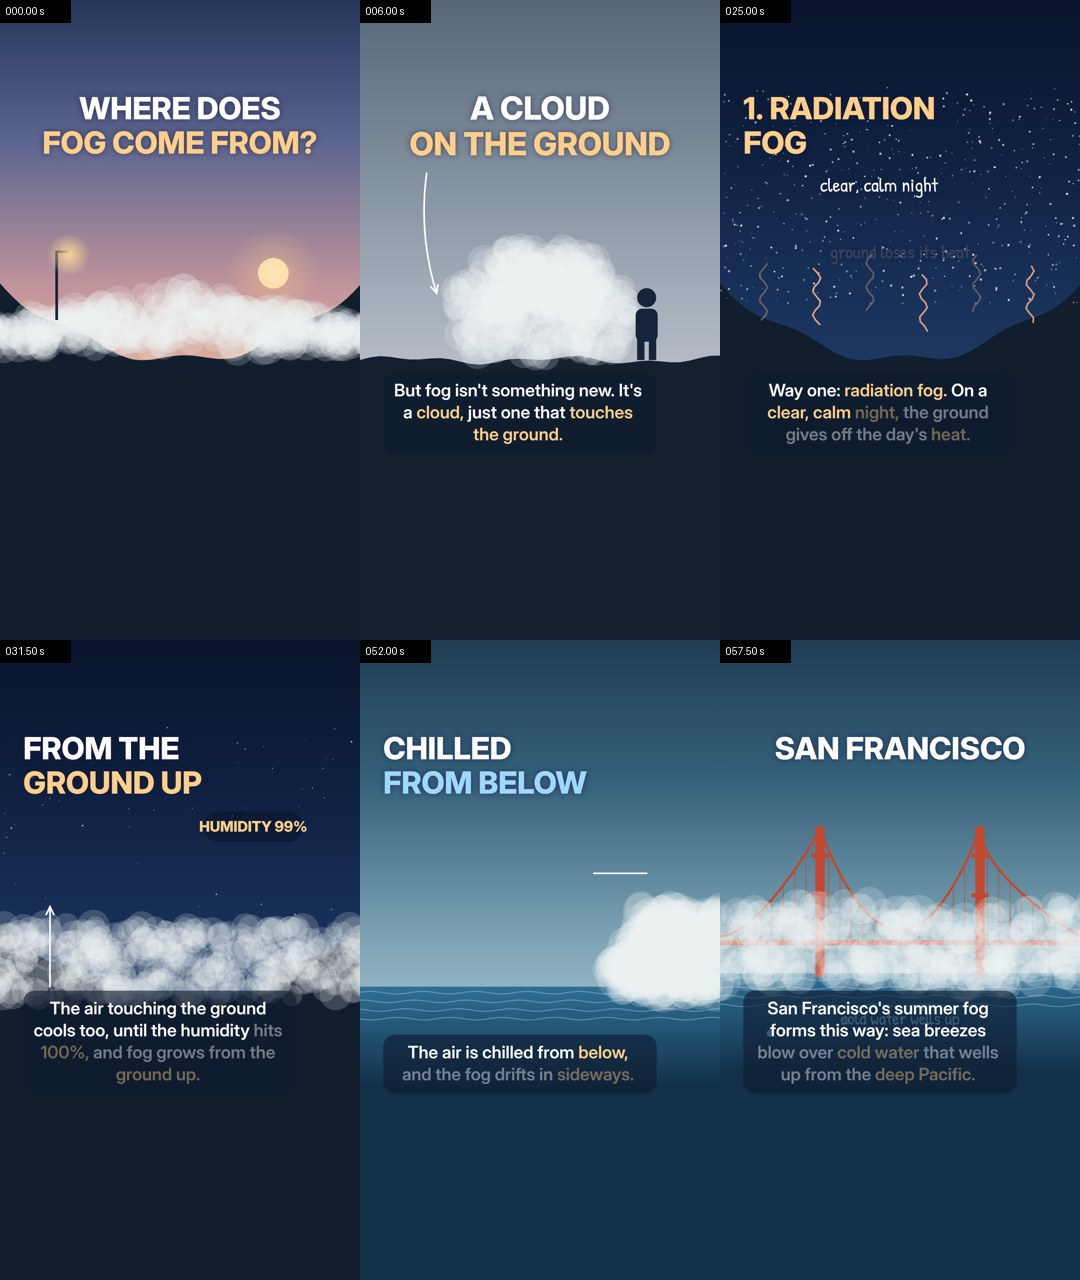
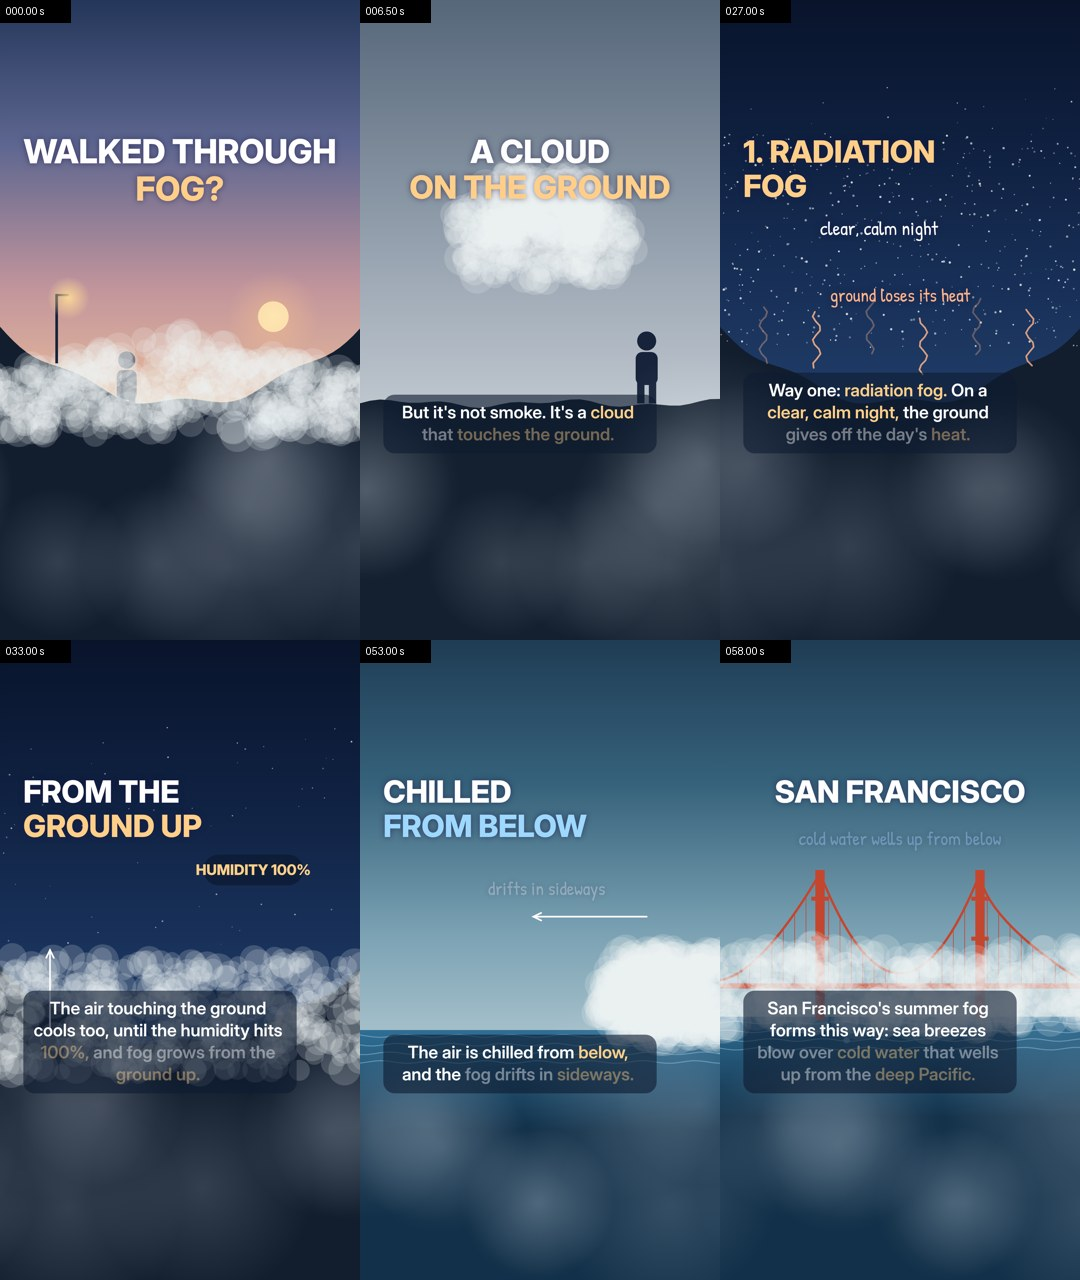
fog v2 (main's notes): claim hook, scenes pulled down 130 px with fog spilling into the lower third, SF label above the water; honey: captions centred at y 1250 to clear the badge
Claude-Session: https://claude.ai/code/session_01BPYB3p1FWoUGpnGH5tCKNK

diff --git a/reels/t_fog.js b/reels/t_fog.js
@@ -12,7 +12,8 @@ const ss = (a, b, x) => { const k = clamp((x - a) / (b - a)); return k * k * (3 
 const fr = x => x - Math.floor(x), hash = n => fr(Math.sin(n * 127.1 + 311.7) * 43758.5453), tri = u => 1 - Math.abs(2 * fr(u) - 1);
 const N = 420, HS = Array.from({ length: N }, (_, i) => [1, 2, 3, 4, 5, 6].map(k => hash(i * 7.31 + k * 1.913)));
 const INK = '#16233a', WARM = '#ffcf8a', COLD = '#9fd8ff', FOGC = '#eef3f7', PEACH = '#ffb48a';
-const GY = 1080;   // ground line
+const GY = 1080, DY = 130;   // ground line in scene space; every scene is drawn DY lower (ground at y ~1210 on screen)
+function lowMist(t) { c.save(); for (let j = 0; j < 9; j++) { const x = fr(hash(j * 3.1) + t * .012 * (1 + hash(j))) * (W + 600) - 300, y = 1330 + hash(j * 5.3) * 380, r = 220 + 140 * hash(j * 7.7); const g = c.createRadialGradient(x, y, 0, x, y, r); g.addColorStop(0, 'rgba(225,235,245,.16)'); g.addColorStop(1, 'rgba(225,235,245,0)'); c.fillStyle = g; c.fillRect(x - r, y - r, 2 * r, 2 * r); } c.restore(); }
 
 // ---------- backgrounds (a dawn-valley palette, distinct from twinkle's violet night) ----------
 const BG = {
@@ -69,13 +70,13 @@ function inCircle(h1, h2, cx, cy, r) { const a = h1 * TAU, d = Math.sqrt(h2) * r
 // ---------- particle formations: f(i, t, lt) -> [x, y] ----------
 const drift = (q, t, sp = .012) => fr(q[0] + t * sp * (.6 + q[4])) * (W + 240) - 120;
 const F = {
-  valley: (i, t) => { const q = HS[i], x = drift(q, t), v = Math.abs(x - 540) / 540; return [x, GY - 40 - q[1] * 170 * (1 - .6 * v) + 30 * v * v * 0 + 8 * Math.sin(t * .6 + q[2] * 6)]; },
+  valley: (i, t) => { const q = HS[i], x = drift(q, t), v = Math.abs(x - 540) / 540; return [x, GY + 90 - q[1] * 300 * (1 - .4 * v) + 8 * Math.sin(t * .6 + q[2] * 6)]; },
   cloud: (cy) => (i, t, lt) => { const q = HS[i], L = [[540, 0, 170], [380, 30, 120], [700, 25, 130], [460, -70, 110], [630, -60, 110]][i % 5], y = typeof cy === 'function' ? cy(lt) : cy; const p = inCircle(q[1], q[2], L[0] + 8 * Math.sin(t * .5 + i), y + L[1], L[2]); return [p[0], p[1] * 1]; },
   room: (i, t) => { const q = HS[i]; return [70 + q[0] * 940 + 10 * Math.sin(t * .4 + q[3] * 6), 420 + q[1] * 650 + 8 * Math.cos(t * .5 + q[2] * 6)]; },
-  layer: (top) => (i, t, lt) => { const q = HS[i], tp = typeof top === 'function' ? top(lt, t) : top; return [drift(q, t, .01), GY - 10 - q[1] * (GY - 10 - tp) + 6 * Math.sin(t * .7 + q[2] * 6)]; },
+  layer: (top) => (i, t, lt) => { const q = HS[i], tp = typeof top === 'function' ? top(lt, t) : top; return [drift(q, t, .01), GY + 90 - q[1] * (GY + 90 - tp) + 6 * Math.sin(t * .7 + q[2] * 6)]; },
   two: (i, t) => { const q = HS[i], cx = i % 2 ? 760 : 320; return inCircle(q[1], q[2], cx + 6 * Math.sin(t + i), 760 + 6 * Math.cos(t + i), 170); },
   field: (i, t) => { const q = HS[i]; return [q[0] * W, 270 + q[1] * 640 + 4 * Math.sin(t * .3 + q[2] * 6)]; },
-  rise: (i, t, lt) => { const q = HS[i], u = clamp(lt / 3.5 - q[3] * .4); return [drift(q, t, .01), GY - 20 - q[1] * 260 - u * (200 + 500 * q[5])]; },
+  rise: (i, t, lt) => { const q = HS[i], u = clamp(lt / 3.5 - q[3] * .4); return [drift(q, t, .01), GY + 80 - q[1] * 360 - u * (200 + 500 * q[5])]; },
   stream: (i, t) => { const q = HS[i], x = fr(q[0] + t * .09 * (.7 + .5 * q[4])) * (W + 200) - 100; return [x, 880 + q[1] * 150 + 14 * Math.sin(x * .01 + t + q[2] * 6)]; },
   bank: (i, t, lt) => { const q = HS[i], front = 160 + Math.min(900, lt * 110), y = 800 + q[1] * 260; return [W + 60 - Math.pow(q[0], .8) * front + 90 * (q[3] - .5) + 50 * Math.sin(y * .02 + t * .8) + 10 * Math.sin(t + q[3] * 6), y + 10 * Math.sin(t * .7 + q[2] * 6)]; },
   gate: (i, t) => { const q = HS[i], x = fr(q[0] + t * .05 * (.6 + q[4])) * (W + 240) - 120; return [x, 800 + q[1] * 230 + 18 * Math.sin(x * .008 + t * .8)]; },
@@ -93,21 +94,22 @@ function drawP(style, x, y, i, t, a, sz = 1, lt = 0) { if (a <= .01 || x < -80 |
 // ---------- scenes (one per phrase) ----------
 const SC = [];
 const on = () => .95, rr = (i, d) => s(i) + d;
-SC[0] = { bg: 'dawn', style: 'fg', form: F.valley, pa: on, sz: 1.2, under: (lt, t) => { sun(820, 820, 46, .9); hills(1); }, draw: (lt, u, t) => { lamp(170, GY - 120, .8, 1); title([['WHERE DOES', '#fff'], ['FOG COME FROM?', WARM]], 1, 330, 92); } };
-SC[1] = { bg: 'grey', style: 'fg', form: F.cloud(lt => lerp(560, 930, ss(1.6, 4.4, lt))), pa: on, sz: 1.1, morph: 1.4, under: (lt, t) => flat(1), draw: (lt, u, t) => { person(860, GY, 1.1, 1); title([['A CLOUD', '#fff'], ['ON THE GROUND', WARM]], lt, 330, 96); arrow(200, 520, 230, 880, lt - 1.8, '#fff', 40); } };
-SC[2] = { bg: 'grey', style: 'vp', form: F.room, pa: on, under: (lt, t) => flat(1), draw: (lt, u, t) => { thermo(960, 780, 260, lerp(.8, .25, ss(.3, 3, lt)), COLD, pop(lt)); titleL([['COOL AIR', '#fff'], ['→ DROPLETS', WARM]], lt, 70, 330, 92); note('invisible vapor', 330, 1110 - 0, lt - .4, '#dfe8f0', 54); note('tiny droplets', 760, 1110, lt - 3.2, '#fff', 58); } };
-SC[3] = { bg: 'grey', style: 'fg', form: F.room, pa: on, sz: 1.5, under: (lt, t) => { flat(1); [[120, 1], [420, .7], [660, .45], [860, .25]].forEach(([x, k], j) => lamp(x, GY, 1 - j * .18, k)); }, draw: (lt, u, t) => { title([['DENSE FOG', '#fff']], lt, 330, 104); pill('¼ MILE OR LESS', CX, 500, 520, 96, WARM, INK, lt - 1.2); } };
-SC[4] = { bg: 'dawn', style: 'fg', form: F.two, pa: on, sz: .9, under: (lt, t) => flat(1), draw: (lt, u, t) => { title([['TWO WAYS', '#fff']], lt, 330, 110); pill('1', 320, 1010, 110, 96, WARM, INK, lt - .5); pill('2', 760, 1010, 110, 96, COLD, INK, lt - .9); } };
-SC[5] = { bg: 'night', style: 'tw', form: F.field, pa: () => .8, under: (lt, t) => { hills(1); }, draw: (lt, u, t) => { for (let j = 0; j < 6; j++) heat(130 + j * 160, GY - 70 - 30 * Math.abs(Math.sin(j)), t + j * .7, pop(lt - .8)); titleL([['1. RADIATION', WARM], ['FOG', WARM]], lt, 70, 330, 92); note('clear, calm night', 300, 560, lt - 1.4, '#fff', 58, 'left'); note('ground loses its heat', 540, 760, lt - 2.4, PEACH, 56); } };
-SC[6] = { bg: 'night', style: 'fg', form: F.layer((lt) => lerp(GY - 30, 760, ss(.4, 5, lt))), pa: on, sz: 1.1, under: (lt, t) => hills(1), draw: (lt, u, t) => { gauge('HUMIDITY', `${Math.round(lerp(70, 100, ss(.4, 3.6, lt)))}%`, 760, 560, lt - .4, WARM); titleL([['FROM THE', '#fff'], ['GROUND UP', WARM]], lt, 70, 330, 92); arrow(150, 1040, 150, 800, lt - 1.4, '#fff', 0); } };
-SC[7] = { bg: 'night', style: 'fg', form: F.layer((lt, t) => lerp(GY - 60, 520, tri(lt / 3.4 + .5) * 0 + ss(.3, 2.6, lt))), pa: on, sz: 1.1, under: (lt, t) => flat(1), draw: (lt, u, t) => { person(240, GY, .55, 1); note('3 ft', 240, GY - 140, lt - .3, '#fff', 56); c.save(); c.globalAlpha = pop(lt - 1.2); c.fillStyle = INK; c.fillRect(800, 520, 40, GY - 520); c.fillRect(790, 500, 60, 24); c.restore(); note('~1,000 ft', 700, 470, lt - 1.4, WARM, 60); title([['HOW DEEP?', '#fff']], lt, 330, 100); } };
-SC[8] = { bg: 'dawn', style: 'fg', form: F.rise, pa: (i, t, lt) => .95 * (1 - ss(1.2, 4.2, lt - HS[i][3])), sz: 1.1, under: (lt, t) => { sun(760, lerp(1080, 640, ss(0, 3.4, lt)), 60, 1); hills(1); }, draw: (lt, u, t) => { title([['THE SUN', '#fff'], ['BURNS IT OFF', WARM]], lt, 330, 96); } };
-SC[9] = { bg: 'sea', style: 'mx', form: F.stream, pa: on, under: (lt, t) => { sea(t, 1, 420, W, 1040); flat(1, '#2a3a2a', 1040); c.save(); c.beginPath(); c.rect(0, 0, 440, H); c.clip(); flat(1, '#3d5235', 1040); c.restore(); }, draw: (lt, u, t) => { titleL([['2. ADVECTION', COLD], ['FOG', COLD]], lt, 70, 330, 92); note('warm, moist air', 230, 800, lt - 1.2, PEACH, 54); note('cold water', 720, 1150, lt - 2.4, COLD, 56); arrow(120, 870, 420, 870, lt - 1.4, PEACH, -10); } };
-SC[10] = { bg: 'sea', style: 'fg', form: F.bank, pa: on, sz: 1.2, under: (lt, t) => { sea(t, 1, 0, W, 1040); }, draw: (lt, u, t) => { titleL([['CHILLED', '#fff'], ['FROM BELOW', COLD]], lt, 70, 330, 92); arrow(860, 700, 520, 700, lt - 1.4, '#fff', 0); note('drifts in sideways', 560, 620, lt - 1.8, '#fff', 56); } };
-SC[11] = { bg: 'sea', style: 'fg', form: F.gate, pa: on, sz: 1.2, under: (lt, t) => { sea(t, 1, 0, W, 1000); bridge(t, 1); for (let j = 0; j < 4; j++) { const u = fr(t * .4 + j / 4); c.save(); c.globalAlpha = .8 * (1 - u); c.fillStyle = COLD; c.beginPath(); c.arc(150 + j * 230, 1120 - u * 110, 10, 0, TAU); c.fill(); c.restore(); } }, draw: (lt, u, t) => { title([['SAN FRANCISCO', '#fff']], lt, 330, 92); note('cold water wells up from below', 540, 470, lt - 2.6, COLD, 56); } };
-SC[12] = { bg: 'dawn', style: 'fg', form: F.halves, pa: on, sz: .9, under: (lt, t) => { flat(1); sea(t, 1, 560, W, 1060); }, draw: (lt, u, t) => { title([['A CLOUD AT', '#fff'], ['GROUND LEVEL', WARM]], lt, 330, 96); note('ground cools it', 290, 780, lt - 2.4, PEACH, 50); note('over something cold', 790, 780, lt - 5.0, COLD, 50); } };
-SC[13] = { bg: 'grey', style: 'fg', form: F.room, pa: on, sz: 1.4, under: (lt, t) => flat(1), draw: (lt, u, t) => { person(lerp(300, 620, ss(0, 3, lt)), GY, 1.3, .9); title([['WALKED THROUGH', '#fff'], ['A CLOUD?', WARM]], lt, 330, 92); pill('YES', 400, 640, 220, 104, WARM, INK, lt - .9); pill('NO', 660, 640, 190, 104, '#fff', INK, lt - 1.1); } };
-SC[14] = { bg: 'dawn', style: 'fg', form: F.band, pa: () => .9, sz: .8, under: (lt, t) => hills(1), draw: (lt, u, t) => { const a = pop(lt);
+SC[0] = { bg: 'dawn', style: 'fg', form: F.valley, pa: on, sz: 1.2, under: (lt, t) => { sun(820, 820, 46, .9); hills(1); person(lerp(380, 470, ss(0, 3, lt)), GY + 40, 1.0, .85); }, draw: (lt, u, t) => { lamp(170, GY - 120, .8, 1); title([['WALKED THROUGH', '#fff'], ['FOG?', WARM]], 1, 330, 100); note('= a cloud', 760, 640, lt - 1.4, '#fff', 66); } };
+SC[1] = { bg: 'dawn', style: 'fg', form: F.valley, pa: on, sz: 1.2, under: (lt, t) => { sun(820, 820, 46, .9); hills(1); }, draw: (lt, u, t) => { lamp(170, GY - 120, .8, 1); title([['WHERE DOES', '#fff'], ['FOG COME FROM?', WARM]], lt, 330, 92); } };
+SC[2] = { bg: 'grey', style: 'fg', form: F.cloud(lt => lerp(560, 930, ss(1.6, 4.4, lt))), pa: on, sz: 1.1, morph: 1.4, under: (lt, t) => flat(1), draw: (lt, u, t) => { person(860, GY, 1.1, 1); title([['A CLOUD', '#fff'], ['ON THE GROUND', WARM]], lt, 330, 96); arrow(200, 520, 230, 880, lt - 1.8, '#fff', 40); } };
+SC[3] = { bg: 'grey', style: 'vp', form: F.room, pa: on, under: (lt, t) => flat(1), draw: (lt, u, t) => { thermo(960, 780, 260, lerp(.8, .25, ss(.3, 3, lt)), COLD, pop(lt)); titleL([['COOL AIR', '#fff'], ['→ DROPLETS', WARM]], lt, 70, 330, 92); note('invisible vapor', 300, 910, lt - .4, '#dfe8f0', 54); note('tiny droplets', 700, 910, lt - 3.2, '#fff', 58); } };
+SC[4] = { bg: 'grey', style: 'fg', form: F.room, pa: on, sz: 1.5, under: (lt, t) => { flat(1); [[120, 1], [420, .7], [660, .45], [860, .25]].forEach(([x, k], j) => lamp(x, GY, 1 - j * .18, k)); }, draw: (lt, u, t) => { title([['DENSE FOG', '#fff']], lt, 330, 104); pill('¼ MILE OR LESS', CX, 500, 520, 96, WARM, INK, lt - 1.2); } };
+SC[5] = { bg: 'dawn', style: 'fg', form: F.two, pa: on, sz: .9, under: (lt, t) => flat(1), draw: (lt, u, t) => { title([['TWO WAYS', '#fff']], lt, 330, 110); pill('1', 320, 900, 110, 96, WARM, INK, lt - .5); pill('2', 760, 900, 110, 96, COLD, INK, lt - .9); } };
+SC[6] = { bg: 'night', style: 'tw', form: F.field, pa: () => .8, under: (lt, t) => { hills(1); }, draw: (lt, u, t) => { for (let j = 0; j < 6; j++) heat(130 + j * 160, GY - 70 - 30 * Math.abs(Math.sin(j)), t + j * .7, pop(lt - .8)); titleL([['1. RADIATION', WARM], ['FOG', WARM]], lt, 70, 330, 92); note('clear, calm night', 300, 560, lt - 1.4, '#fff', 58, 'left'); note('ground loses its heat', 540, 760, lt - 2.4, PEACH, 56); } };
+SC[7] = { bg: 'night', style: 'fg', form: F.layer((lt) => lerp(GY - 30, 760, ss(.4, 5, lt))), pa: on, sz: 1.1, under: (lt, t) => hills(1), draw: (lt, u, t) => { gauge('HUMIDITY', `${Math.round(lerp(70, 100, ss(.4, 3.6, lt)))}%`, 760, 560, lt - .4, WARM); titleL([['FROM THE', '#fff'], ['GROUND UP', WARM]], lt, 70, 330, 92); arrow(150, 1040, 150, 800, lt - 1.4, '#fff', 0); } };
+SC[8] = { bg: 'night', style: 'fg', form: F.layer((lt, t) => lerp(GY - 60, 520, tri(lt / 3.4 + .5) * 0 + ss(.3, 2.6, lt))), pa: on, sz: 1.1, under: (lt, t) => flat(1), draw: (lt, u, t) => { person(240, GY, .55, 1); note('3 ft', 240, GY - 140, lt - .3, '#fff', 56); c.save(); c.globalAlpha = pop(lt - 1.2); c.fillStyle = INK; c.fillRect(800, 520, 40, GY - 520); c.fillRect(790, 500, 60, 24); c.restore(); note('~1,000 ft', 700, 470, lt - 1.4, WARM, 60); title([['HOW DEEP?', '#fff']], lt, 330, 100); } };
+SC[9] = { bg: 'dawn', style: 'fg', form: F.rise, pa: (i, t, lt) => .95 * (1 - ss(1.2, 4.2, lt - HS[i][3])), sz: 1.1, under: (lt, t) => { sun(760, lerp(1080, 640, ss(0, 3.4, lt)), 60, 1); hills(1); }, draw: (lt, u, t) => { title([['THE SUN', '#fff'], ['BURNS IT OFF', WARM]], lt, 330, 96); } };
+SC[10] = { bg: 'sea', style: 'mx', form: F.stream, pa: on, under: (lt, t) => { sea(t, 1, 420, W, 1040); flat(1, '#2a3a2a', 1040); c.save(); c.beginPath(); c.rect(0, 0, 440, H); c.clip(); flat(1, '#3d5235', 1040); c.restore(); }, draw: (lt, u, t) => { titleL([['2. ADVECTION', COLD], ['FOG', COLD]], lt, 70, 330, 92); note('warm, moist air', 230, 800, lt - 1.2, PEACH, 54); note('cold water', 720, 920, lt - 2.4, COLD, 56); arrow(120, 870, 420, 870, lt - 1.4, PEACH, -10); } };
+SC[11] = { bg: 'sea', style: 'fg', form: F.bank, pa: on, sz: 1.2, under: (lt, t) => { sea(t, 1, 0, W, 1040); }, draw: (lt, u, t) => { titleL([['CHILLED', '#fff'], ['FROM BELOW', COLD]], lt, 70, 330, 92); arrow(860, 700, 520, 700, lt - 1.4, '#fff', 0); note('drifts in sideways', 560, 620, lt - 1.8, '#fff', 56); } };
+SC[12] = { bg: 'sea', style: 'fg', form: F.gate, pa: on, sz: 1.2, under: (lt, t) => { sea(t, 1, 0, W, 1000); bridge(t, 1); for (let j = 0; j < 4; j++) { const u = fr(t * .4 + j / 4); c.save(); c.globalAlpha = .8 * (1 - u); c.fillStyle = COLD; c.beginPath(); c.arc(150 + j * 230, 1120 - u * 110, 10, 0, TAU); c.fill(); c.restore(); } }, draw: (lt, u, t) => { title([['SAN FRANCISCO', '#fff']], lt, 330, 92); note('cold water wells up from below', 540, 470, lt - 2.6, COLD, 56); } };
+SC[13] = { bg: 'dawn', style: 'fg', form: F.halves, pa: on, sz: .9, under: (lt, t) => { flat(1); sea(t, 1, 560, W, 1060); }, draw: (lt, u, t) => { title([['A CLOUD AT', '#fff'], ['GROUND LEVEL', WARM]], lt, 330, 96); note('ground cools it', 290, 780, lt - 2.4, PEACH, 50); note('over something cold', 790, 780, lt - 5.0, COLD, 50); } };
+SC[14] = { bg: 'grey', style: 'fg', form: F.room, pa: on, sz: 1.4, under: (lt, t) => flat(1), draw: (lt, u, t) => { person(lerp(300, 620, ss(0, 3, lt)), GY, 1.3, .9); title([['FOG WHERE', '#fff'], ['YOU LIVE?', WARM]], lt, 330, 100); pill('YES', 400, 640, 220, 104, WARM, INK, lt - .9); pill('NO', 660, 640, 190, 104, INK, '#fff', lt - 1.1); } };
+SC[15] = { bg: 'dawn', style: 'fg', form: F.band, pa: () => .9, sz: .8, under: (lt, t) => hills(1), draw: (lt, u, t) => { const a = pop(lt);
   txt('Follow for more of', CX, 560, 80, '#fff', { a }); txt('how it really works.', CX, 660, 80, WARM, { a }); txt("A new 'wait, really?' every day.", CX, 790, 50, '#fff', { a: a * .9, f: 'Hand', wt: 400 }); txt('@howitreallyworkstudio', CX, 870, 46, COLD, { a: a * .9, wt: 600 }); } };
 
 const START = PH.map(p => p.start); START[0] = 0;
@@ -128,6 +130,7 @@ function caption(t) { let k = -1; for (let i = 0; i < PH.length; i++) if (t >= P
 function draw(t) {
   const k = sceneAt(t), S = SC[k], P = SC[Math.max(0, k - 1)], lt = t - START[k], lp = t - START[Math.max(0, k - 1)], mk = k === 0 ? 1 : ss(-.3, .5, lt);
   c.setTransform(1, 0, 0, 1, 0, 0); c.globalAlpha = 1; sky(P.bg, 1); if (S.bg !== P.bg) sky(S.bg, mk);
+  c.save(); c.translate(0, DY);
   if (P.under && k > 0 && mk < 1) { c.save(); c.globalAlpha = 1 - mk; P.under(lp, t); c.restore(); } if (S.under) { c.save(); c.globalAlpha = mk; S.under(lt, t); c.restore(); }
   const sameStyle = S.style === P.style;
   for (let i = 0; i < N; i++) { const q = HS[i], mo = S.morph || MORPH, kk = k === 0 ? 1 : eo(clamp((lt + .3 - q[5] * mo * .5) / mo));
@@ -138,6 +141,7 @@ function draw(t) {
   c.globalAlpha = 1;
   if (k > 0 && lt < .45 && P.draw) { c.save(); c.globalAlpha = 1 - lt / .45; P.draw(lp, 0, t); c.restore(); }
   c.save(); c.globalAlpha = k === 0 ? 1 : ss(-.1, .35, lt); S.draw(lt, 0, t); c.restore();
+  c.restore(); lowMist(t);
   caption(t);
 }
 // frame 0 snapshot for the loop ending (fades in at most 40% over the last 0.5 s)

diff --git a/reels/tl_fog.js b/reels/tl_fog.js
@@ -1,1 +1,1 @@
-window.TL={"total": 76.208, "p": [{"i": 0, "cap": "Where does **fog** come from?", "start": 0.35, "end": 1.53}, {"i": 1, "cap": "But fog isn't something new. It's a **cloud,** just one that **touches the ground.**", "start": 1.91, "end": 6.42}, {"i": 2, "cap": "Fog forms when the air near the ground **cools** enough that its invisible water vapor turns into tiny **water droplets.**", "start": 7.12, "end": 14.129}, {"i": 3, "cap": "Dense fog can cut how far you see to a **quarter of a mile** or less.", "start": 14.509, "end": 18.207}, {"i": 4, "cap": "So what cools the air that much? There are **two main ways.**", "start": 18.907, "end": 21.866}, {"i": 5, "cap": "Way one: **radiation fog.** On a **clear, calm night,** the ground gives off the day's **heat.**", "start": 22.566, "end": 27.929}, {"i": 6, "cap": "The air touching the ground cools too, until the humidity hits **100%,** and fog grows from the **ground up.**", "start": 28.309, "end": 35.18}, {"i": 7, "cap": "It can be just **3 feet** deep, or about **1,000.**", "start": 35.56, "end": 38.342}, {"i": 8, "cap": "Then the **sun** comes up, warms the air, and it usually **burns off.**", "start": 39.042, "end": 42.446}, {"i": 9, "cap": "Way two: **advection fog.** Wind moves **warm, moist air** over a **cold** surface, like cold water or snow.", "start": 43.146, "end": 50.103}, {"i": 10, "cap": "The air is chilled from **below,** and the fog drifts in **sideways.**", "start": 50.483, "end": 53.962}, {"i": 11, "cap": "San Francisco's summer fog forms this way: sea breezes blow over **cold water** that wells up from the **deep Pacific.**", "start": 54.662, "end": 61.561}, {"i": 12, "cap": "So fog is a **cloud at ground level:** either the ground **cools** the air on a calm night, or moist air slides over something **cold.**", "start": 62.261, "end": 70.109}, {"i": 13, "cap": "Have you ever walked through a **cloud?** **Yes or no?**", "start": 70.489, "end": 72.952}, {"i": 14, "cap": "Follow for more of **how it really works.**", "start": 73.332, "end": 75.228}]};
+window.TL={"total": 76.296, "p": [{"i": 0, "cap": "Walked through fog? Then you've walked through a **cloud.**", "start": 0.35, "end": 2.868}, {"i": 1, "cap": "Where does **fog** come from?", "start": 3.248, "end": 4.428}, {"i": 2, "cap": "But it's not smoke. It's a **cloud** that **touches the ground.**", "start": 4.808, "end": 7.874}, {"i": 3, "cap": "Fog forms when the air near the ground **cools** enough that its invisible water vapor turns into tiny **water droplets.**", "start": 8.574, "end": 15.483}, {"i": 4, "cap": "Dense fog can cut how far you see to a **quarter of a mile** or less.", "start": 15.863, "end": 19.461}, {"i": 5, "cap": "So what cools the air that much? There are **two main ways.**", "start": 20.161, "end": 23.046}, {"i": 6, "cap": "Way one: **radiation fog.** On a **clear, calm night,** the ground gives off the day's **heat.**", "start": 23.746, "end": 29.032}, {"i": 7, "cap": "The air touching the ground cools too, until the humidity hits **100%,** and fog grows from the **ground up.**", "start": 29.412, "end": 36.137}, {"i": 8, "cap": "It can be just **3 feet** deep, or about **1,000.**", "start": 36.517, "end": 39.203}, {"i": 9, "cap": "Then the **sun** comes up, warms the air, and it usually **burns off.**", "start": 39.903, "end": 43.256}, {"i": 10, "cap": "Way two: **advection fog.** Wind moves **warm, moist air** over a **cold** surface, like cold water or snow.", "start": 43.956, "end": 50.763}, {"i": 11, "cap": "The air is chilled from **below,** and the fog drifts in **sideways.**", "start": 51.143, "end": 54.622}, {"i": 12, "cap": "San Francisco's summer fog forms this way: sea breezes blow over **cold water** that wells up from the **deep Pacific.**", "start": 55.322, "end": 62.159}, {"i": 13, "cap": "So fog is a **cloud at ground level:** either the ground **cools** the air on a calm night, or moist air slides over something **cold.**", "start": 62.859, "end": 70.503}, {"i": 14, "cap": "Do you get **fog** where you live? **Yes or no?**", "start": 70.883, "end": 73.071}, {"i": 15, "cap": "Follow for more of **how it really works.**", "start": 73.451, "end": 75.316}]};

diff --git a/reels/t_honey.js b/reels/t_honey.js
@@ -124,7 +124,7 @@ function scene(t) {
   g.setTransform(1, 0, 0, 1, 0, 0); g.globalAlpha = 1; g.drawImage(paper(), 0, 0);
   g.save(); g.translate(8 * Math.sin(t * .45), 6 * Math.sin(t * .33)); hook(t); recipe(t); signoff(t); endcard(t); g.restore();
   if (t > s(2) - .3 && t < s(11)) { const [i, u] = stepIndex(t); g.save(); g.globalAlpha = seg(t, s(2) - .3, s(2) + .2) * (1 - seg(t, s(11) - .4, s(11))); progress(g, STEPS, i, u); g.restore(); }
-  const ph = PH.findLast(p => t >= p.start - .1); if (ph && ph.i < PH.length - 1) { const nx = PH[ph.i + 1].start; caption(g, ph.cap, seg(t, ph.start - .1, ph.start + .12) * (1 - seg(t, nx - .2, nx - .05)), 1290); }
+  const ph = PH.findLast(p => t >= p.start - .1); if (ph && ph.i < PH.length - 1) { const nx = PH[ph.i + 1].start; caption(g, ph.cap, seg(t, ph.start - .1, ph.start + .12) * (1 - seg(t, nx - .2, nx - .05)), 1250); }
 }
 window.DUR = TOT;
 // loop: blend the frame-0 hook back in over the last 0.5 s (30%)

diff --git a/jobs/fog/hooks_fog.md b/jobs/fog/hooks_fog.md
@@ -1,9 +1,9 @@
 # fog: opening lines (pick marked ★)
 
-1. ★ "Where does fog come from?" (5 words: the exact search question). Frame 0: a dawn valley with a soft white fog bank (the particle flock) sitting in the low ground, the sun just over the far hill, a lamppost poking out of the fog; title "WHERE DOES FOG COME FROM?". The but-turn at 1.9 s ("But fog isn't something new. It's a cloud, just one that touches the ground."): the flock re-forms into a cloud that sinks down to the ground beside a person.
+1. ★ v2 (main's note): open on a claim. "Walked through fog? Then you've walked through a cloud." (frame 0, spoken at 0.35 s), then the search question "Where does fog come from?" (5 words, 3.3 s), then the turn "But it's not smoke. It's a cloud that touches the ground." (4.8 s). Frame 0: a dawn valley with a soft white fog bank (the particle flock) spilling over the low ground and down into the lower third, a person half-hidden in it, the sun just over the far hill, a lamppost poking out; title "WALKED THROUGH FOG?" and the note "= a cloud". At the turn the flock re-forms into a cloud that sinks to the ground beside a person.
 2. "You've walked through a cloud." (5 words). A strong opener, kept as the closing question.
 3. "Fog is a cloud that got lost." (7 words). Cute, but not accurate.
 
 Why ★1: it's the question people type, and "it's a cloud on the ground" is the twist by 5 s.
-Re-hooks: 18.9 s "So what cools the air that much? There are two main ways."; 22.6 s radiation fog; 43.1 s advection fog; 54.7 s San Francisco.
-Payoff 62.3 s: "So fog is a cloud at ground level: either the ground cools the air on a calm night, or moist air slides over something cold." Question: "Have you ever walked through a cloud? Yes or no?"
+Re-hooks (v2 times are about 1 s later): 18.9 s "So what cools the air that much? There are two main ways."; 22.6 s radiation fog; 43.1 s advection fog; 54.7 s San Francisco.
+Payoff 62.3 s: "So fog is a cloud at ground level: either the ground cools the air on a calm night, or moist air slides over something cold." Question (v2, since the hook now uses the cloud line): "Do you get fog where you live? Yes or no?"
